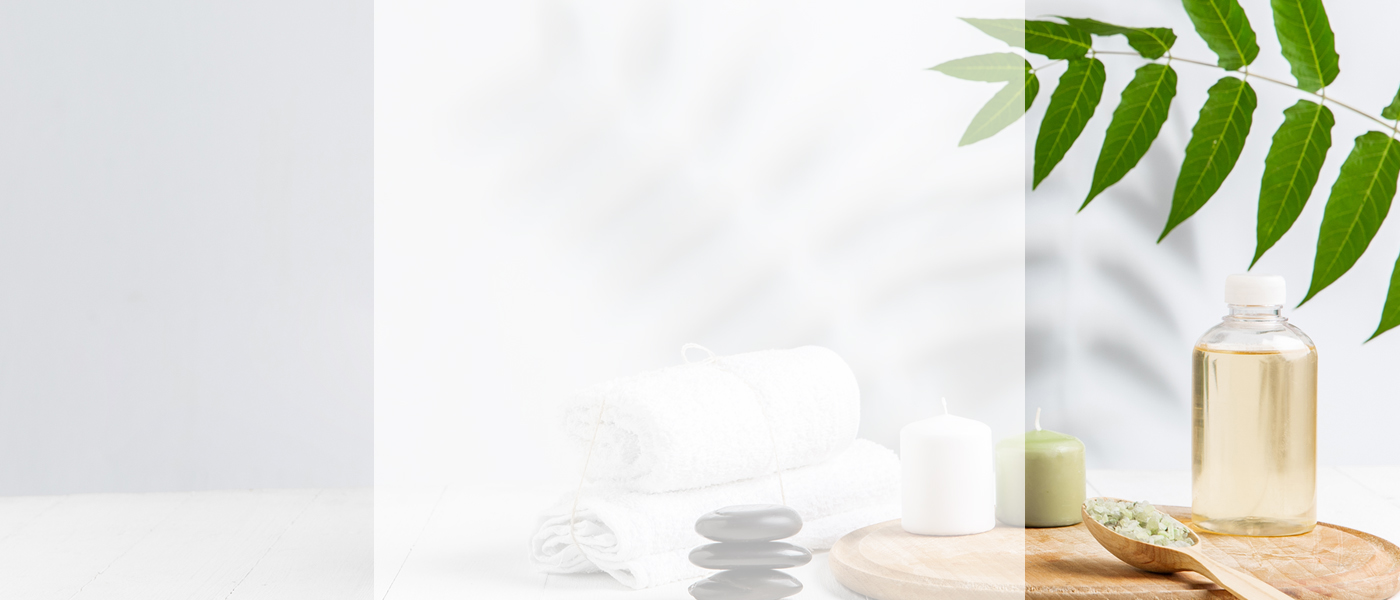
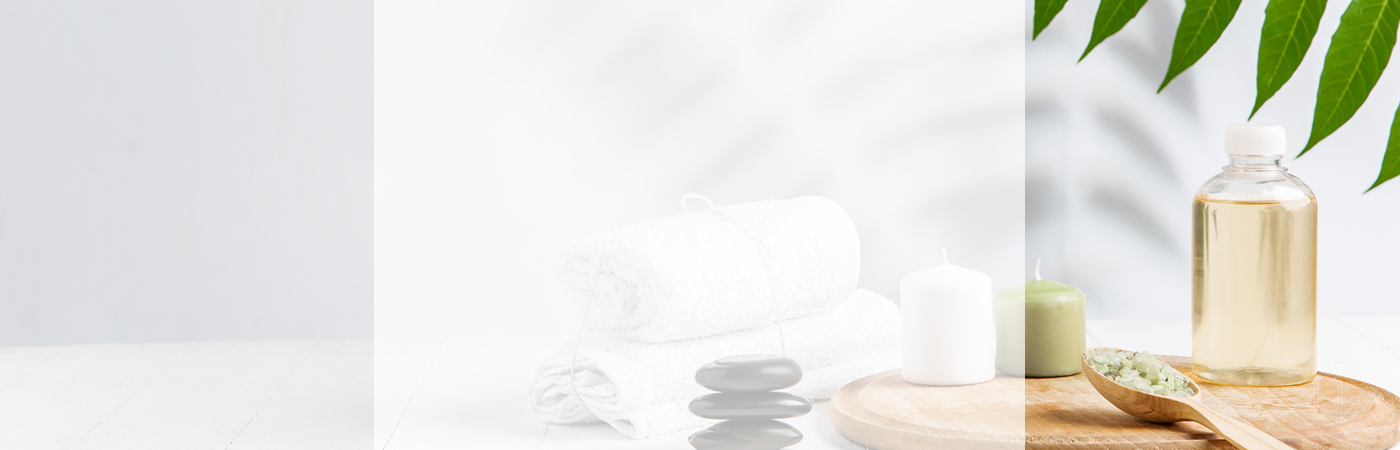
better slider intro

Changed region(s): [[0.4914, 0.0, 1.0, 0.9956], [0.7064, 0.4356, 0.7679, 0.4978], [0.3993, 0.9333, 0.4607, 0.9644]]

diff --git a/src/home/sections/IntroFinal.jsx b/src/home/sections/IntroFinal.jsx
@@ -1,0 +1,139 @@
+import React from "react";
+
+import { makeStyles, lighten } from "@material-ui/core/styles";
+import Carousel from "../common/Carousel";
+import clsx from "clsx";
+
+const useStyles = makeStyles(({ palette, ...theme }) => ({
+  introWrapper: {
+    position: "relative",
+    height: "100%",
+    overflow: "hidden",
+  },
+  intro: {
+    padding: "7.5rem 0rem",
+    maxWidth: 500,
+    [theme.breakpoints.down("sm")]: {
+      padding: "2.5rem 0rem",
+    },
+    zIndex: 5,
+  },
+  text: {
+  position: "absolute",
+  top: "60%",
+  left: "50%",
+  transform: "translate(-50%, -50%)"
+  },
+
+  p: {
+  letterSpacing: "0.72px",
+  lineHeight: "40px",
+  textAlign: "center",
+  fontSize: "22px",
+  fontFamily: "LEMON MILK Light",
+  maxWidth:"387px"
+  },
+
+  h1: {
+    color: "#182731",
+    fontSize: "48px",
+    lineHeight: "64px",
+    textAlign: "center"
+  },
+
+  h2: {
+    color: "#182731",
+    fontFamily: "LEMON MILK Light",
+    fontSize: "35px",
+    lineHeight: "40px",
+    textAlign: "center"
+  },
+
+  button: {
+  height: "86px",
+  width: "255px",
+  borderRadius: "100px",
+  backgroundColor: "#182731",
+  color: "white",
+  fontSize: "1.5em",
+  fontFamily: "LEMON MILK Light"
+  },
+
+  center: {
+    display: "flex",
+    flexWrap: "wrap",
+    justifyContent: "center",
+    alignItems: "center",
+    marginTop: "1rem"
+   },
+}));
+
+const IntroFinal = () => {
+  const classes = useStyles();
+
+  const ikdoList = [
+    {
+      img: "./assets/images/1.jpg",
+      h1: "IKDO",
+      h2: " By Zen Workshop",
+      text: "Détentez vous et prenez votre temps",
+      buttonText:"Massage"
+    },
+    {
+      img: "./assets/images/2.jpg",
+      h1: "IKDO",
+      h2: " By Zen Workshop",
+      text: "Plusieurs formations sont accesibles",
+      buttonText:"Formations"
+    },
+    {
+      img: "./assets/images/3.jpg",
+      h1: "IKDO",
+      h2: " By Zen Workshop",
+      text: "Détentez vous et prenez votre temps",
+      buttonText: "Coaching"
+    }
+  ];
+
+  return (
+    <div className="section">
+    <div className={classes.introWrapper}>
+      <div className="container">
+        <Carousel
+          carouselId="swiper-11"
+          paginationClass="mt-16"
+          slidesPerView={1}
+        >
+          {ikdoList.map((item, index) => (
+          <div key={index}>
+            
+          <img className="h-full w-full relative" src={item.img} alt="" />
+        
+           <div className={clsx(classes.text)}>
+                <h1 className={classes.h1}>
+                {item.h1}
+              </h1>
+              <h2 className={classes.h2}>
+              {item.h2}
+              </h2>
+
+              <p className={classes.p}>
+              {item.text}
+              </p>
+              <div className={classes.center}>
+              <button size="large" className={clsx(classes.button, classes.center)}>
+              {item.buttonText}
+              </button>
+              </div>
+
+              </div>
+            </div>
+          ))}
+        </Carousel>
+      </div>
+      </div>
+    </div>
+  );
+};
+
+export default IntroFinal;

diff --git a/src/home/common/Carousel.jsx b/src/home/common/Carousel.jsx
@@ -20,22 +20,14 @@ const useStyles = makeStyles(({ palette, ...theme }) => ({
     display: "inline-block",
     borderRadius: "100%",
     cursor: "pointer",
-    margin: "0 4px",
+    margin: "0 4px"
   },
   bulletActiveClass: {
     transform: "scale(1.8)",
   },
-  prevButton: {
-    left: 0,
-    marginLeft: "-24px !important",
-  },
-  nextButton: {
-    right: 0,
-    marginRight: "-24px !important",
-  },
   navButton: {
     position: "absolute !important",
-    top: "40%",
+    top: "50%",
     transform: "translateY(calc(-50% - 50px))",
     zIndex: 1,
     [theme.breakpoints.down("sm")]: {
@@ -47,14 +39,14 @@ const useStyles = makeStyles(({ palette, ...theme }) => ({
 const Carousel = (props) => {
   let theme = useTheme();
   let {
-    slidesPerView = 3,
+    slidesPerView = 1,
     spacing = 32,
     allowSlideNext = true,
     allowSlidePrev = true,
-    delay = 5000,
+    delay = 3000,
     navigation = true,
-    bulletColor = theme.palette.primary.main,
-    paginationClass = "mt-6",
+    bulletColor = theme.palette.second,
+    paginationClass = "mt-6 !important",
     carouselId = "swiper-1",
     children,
   } = props;
@@ -99,12 +91,7 @@ const Carousel = (props) => {
       bulletClass,
       bulletActiveClass,
       clickable: true,
-    },
-
-    navigation: {
-      nextEl: ".carousel__button-next",
-      prevEl: ".carousel__button-prev",
-    },
+    }
   };
 
   useEffect(() => {
@@ -120,33 +107,10 @@ const Carousel = (props) => {
           ))}
         </div>
 
-        {/* pagination <div className={clsx("swiper-pagination relative", paginationClass)} /> */}
+        {/* pagination */}
+        <div className={clsx("swiper-pagination relative", paginationClass)} /> 
         
       </div>
-
-      {/* navigation */}
-      {navigation && (
-        <Fab
-          className={clsx(
-            "carousel__button-prev bg-white",
-            prevButton,
-            navButton
-          )}
-        >
-          <NavigateBefore />
-        </Fab>
-      )}
-      {navigation && (
-        <Fab
-          className={clsx(
-            "carousel__button-next bg-white",
-            nextButton,
-            navButton
-          )}
-        >
-          <NavigateNext />
-        </Fab>
-      )}
     </div>
   );
 };

diff --git a/src/home/Landing12.jsx b/src/home/Landing12.jsx
@@ -6,7 +6,7 @@ import Intro12 from "./sections/Intro12";
 import Clients1 from "./sections/Clients1";
 import Features12 from "./sections/Features12";
 import Marketing3 from "./sections/Marketing3";
-import Testimonial11 from "./sections/Testimonial11";
+import IntroFinal from "./sections/IntroFinal";
 import Services11 from "./sections/Services11";
 import FAQ1 from "./sections/FAQ1";
 import Subscription2 from "./sections/Subscription2";
@@ -21,7 +21,7 @@ const Landing12 = () => {
       <Services12 />
       <Features12 />
       <Services13 />
-      <Testimonial11 />
+      <IntroFinal />
       <Footer2 />
     </div>
   );

diff --git a/src/home/Accueil.jsx b/src/home/Accueil.jsx
@@ -1,6 +1,6 @@
 import React, { useEffect } from "react";
 import { scrollTo } from "utils";
-import Testimonial11 from "./sections/Testimonial11";
+import IntroFinal from "./sections/IntroFinal";
 import TopBar from "./sections/TopBar";
 import Services8 from "./sections/Services8";
 import Massages from "./sections/Massages";
@@ -16,7 +16,7 @@ const Accueil = () => {
   return (
     <div className="landing">
       <TopBar />
-      <Testimonial11 />
+      <IntroFinal />
       <Services8 />
       <Massages />
       <Formations />
